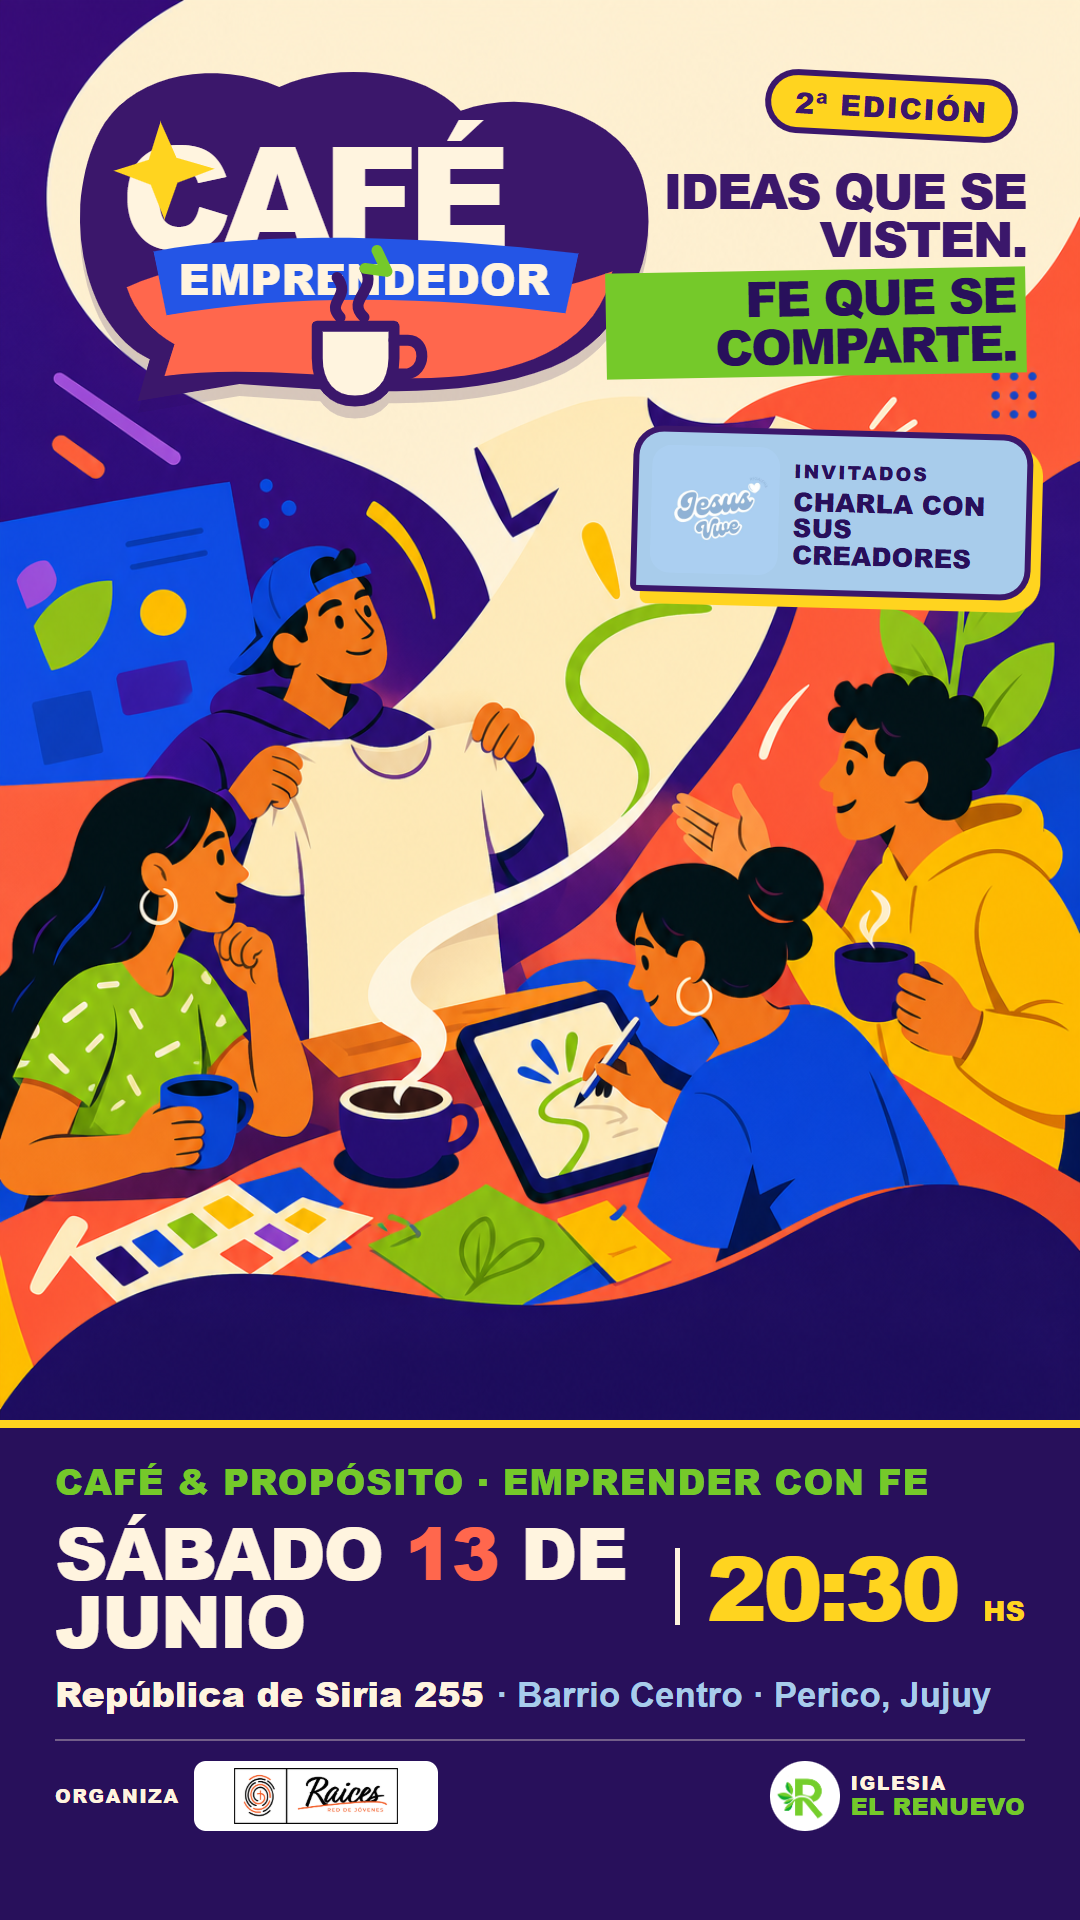
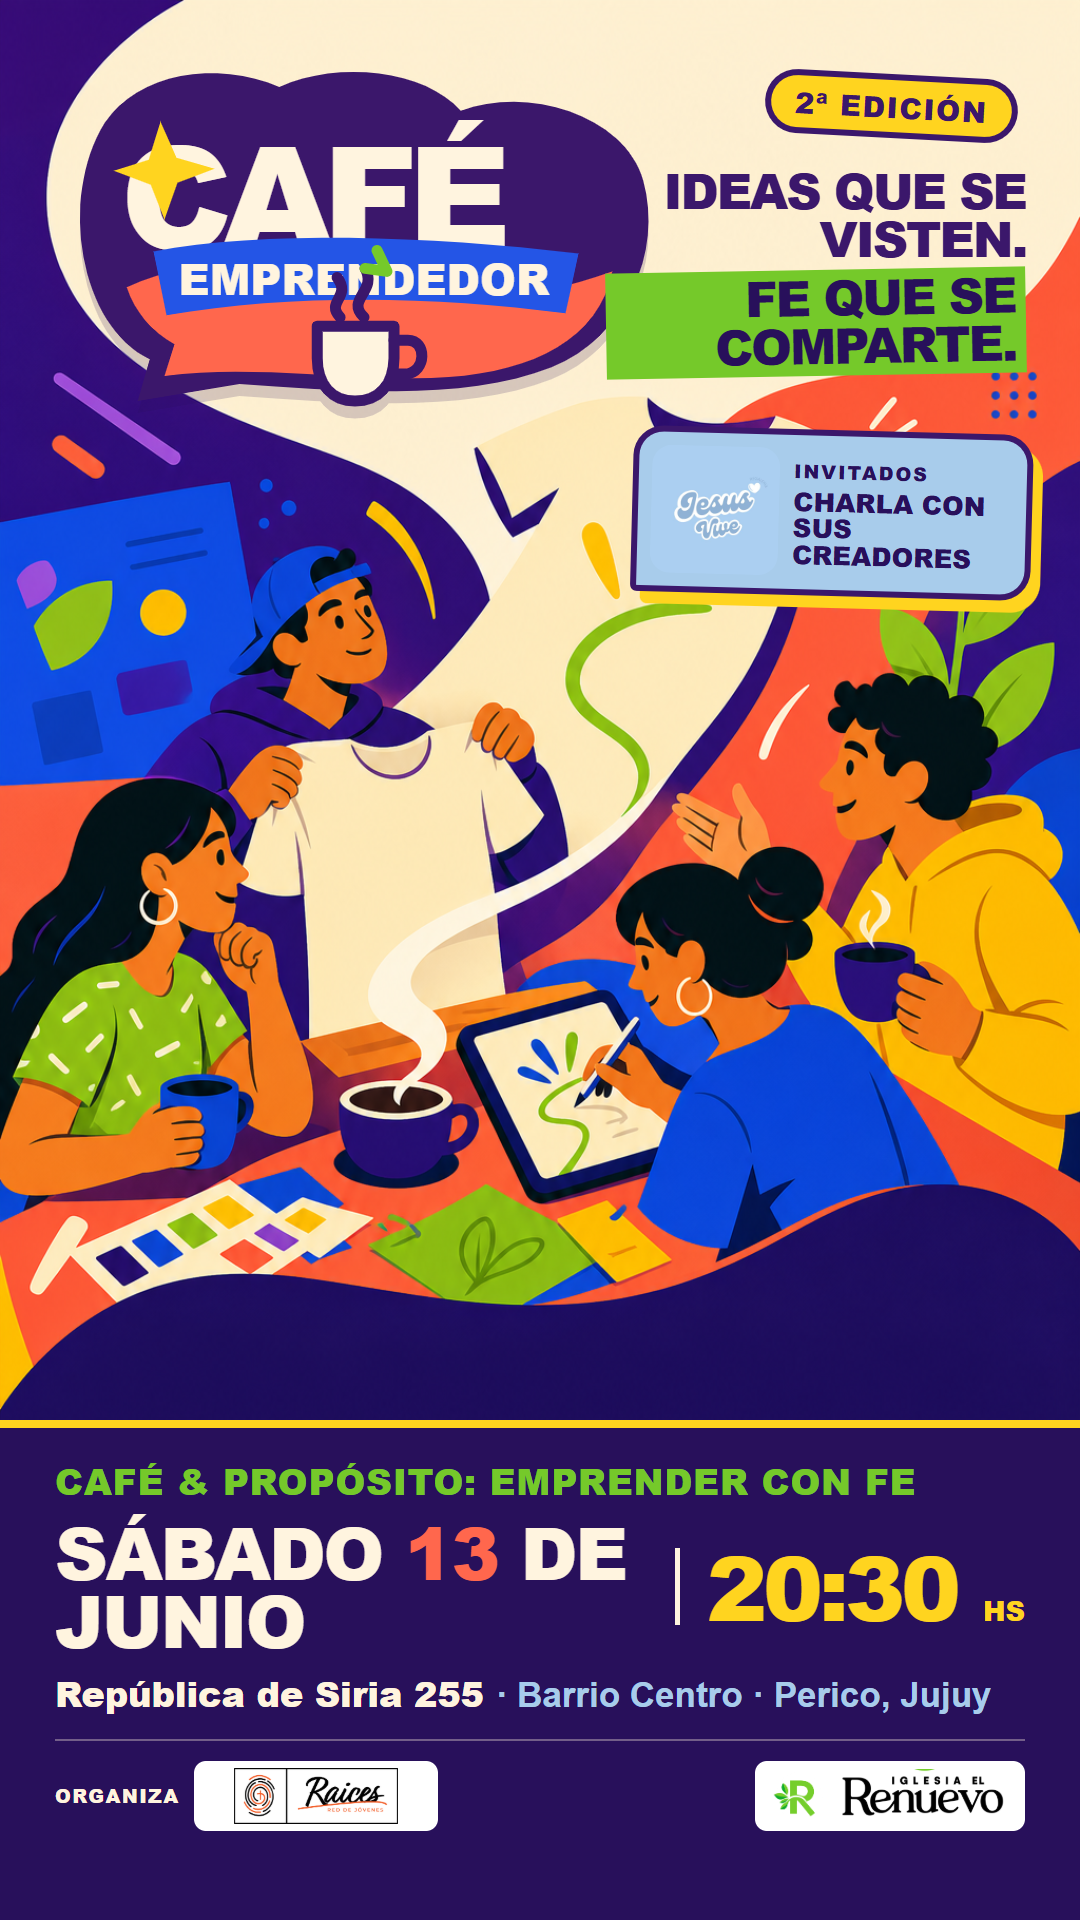
Add branding assets and flyers for Cafe Emprendedor event

Changed region(s): [[0.7028, 0.9062, 0.9472, 0.9688], [0.4278, 0.75, 0.8556, 0.7812]]

diff --git a/cafe_emprendedor/flyer/flyer-preview.html b/cafe_emprendedor/flyer/flyer-preview.html
@@ -267,9 +267,11 @@
       letter-spacing: 1.5px;
       text-transform: uppercase;
     }
-    .organizer-card {
+    .organizer-card,
+    .church-card {
       display: flex;
       align-items: center;
+      justify-content: center;
       height: 57px;
       padding: 7px 12px;
       border-radius: 12px;
@@ -283,28 +285,28 @@
     .church {
       display: flex;
       align-items: center;
-      gap: 11px;
     }
-    .church img {
-      width: 58px;
-      height: 58px;
+    .church-card {
+      width: 225px;
+      gap: 8px;
+    }
+    .church-card .church-icon {
+      width: 46px;
+      height: 46px;
       object-fit: contain;
-      padding: 4px;
-      border-radius: 50%;
-      background: #fff;
     }
-    .church-label b {
-      display: block;
-      color: #75c92a;
-      font-size: 20px;
-      letter-spacing: .2px;
+    .church-card .church-wordmark {
+      width: 147px;
+      height: 48px;
+      object-fit: contain;
     }
     .story .organizer-label,
     .story .church-label { font-size: 19px; }
     .story .organizer-card { height: 70px; }
     .story .organizer-card img { width: 220px; max-height: 56px; }
-    .story .church img { width: 70px; height: 70px; }
-    .story .church-label b { font-size: 24px; }
+    .story .church-card { width: 270px; height: 70px; }
+    .story .church-card .church-icon { width: 56px; height: 56px; }
+    .story .church-card .church-wordmark { width: 175px; height: 57px; }
   </style>
 </head>
 <body>
@@ -337,7 +339,7 @@
       </div>
     </div>
     <div class="info">
-      <div class="activity">Café &amp; Propósito · Emprender con Fe</div>
+      <div class="activity">Café &amp; Propósito: Emprender con Fe</div>
       <div class="date-row">
         <div class="date">Sábado <b>13</b> de junio</div>
         <div class="time">20:30 <small>HS</small></div>
@@ -351,8 +353,10 @@
           </div>
         </div>
         <div class="church">
-          <img src="../branding/aliados/el-renuevo-r4.png" alt="Iglesia El Renuevo">
-          <div class="church-label">Iglesia<b>El Renuevo</b></div>
+          <div class="church-card">
+            <img class="church-icon" src="../branding/aliados/el-renuevo-r4.png" alt="">
+            <img class="church-wordmark" src="../branding/aliados/el-renuevo-wordmark.png" alt="Iglesia El Renuevo">
+          </div>
         </div>
       </div>
     </div>
@@ -387,7 +391,7 @@
       </div>
     </div>
     <div class="info">
-      <div class="activity">Café &amp; Propósito · Emprender con Fe</div>
+      <div class="activity">Café &amp; Propósito: Emprender con Fe</div>
       <div class="date-row">
         <div class="date">Sábado <b>13</b> de junio</div>
         <div class="time">20:30 <small>HS</small></div>
@@ -401,8 +405,10 @@
           </div>
         </div>
         <div class="church">
-          <img src="../branding/aliados/el-renuevo-r4.png" alt="Iglesia El Renuevo">
-          <div class="church-label">Iglesia<b>El Renuevo</b></div>
+          <div class="church-card">
+            <img class="church-icon" src="../branding/aliados/el-renuevo-r4.png" alt="">
+            <img class="church-wordmark" src="../branding/aliados/el-renuevo-wordmark.png" alt="Iglesia El Renuevo">
+          </div>
         </div>
       </div>
     </div>
